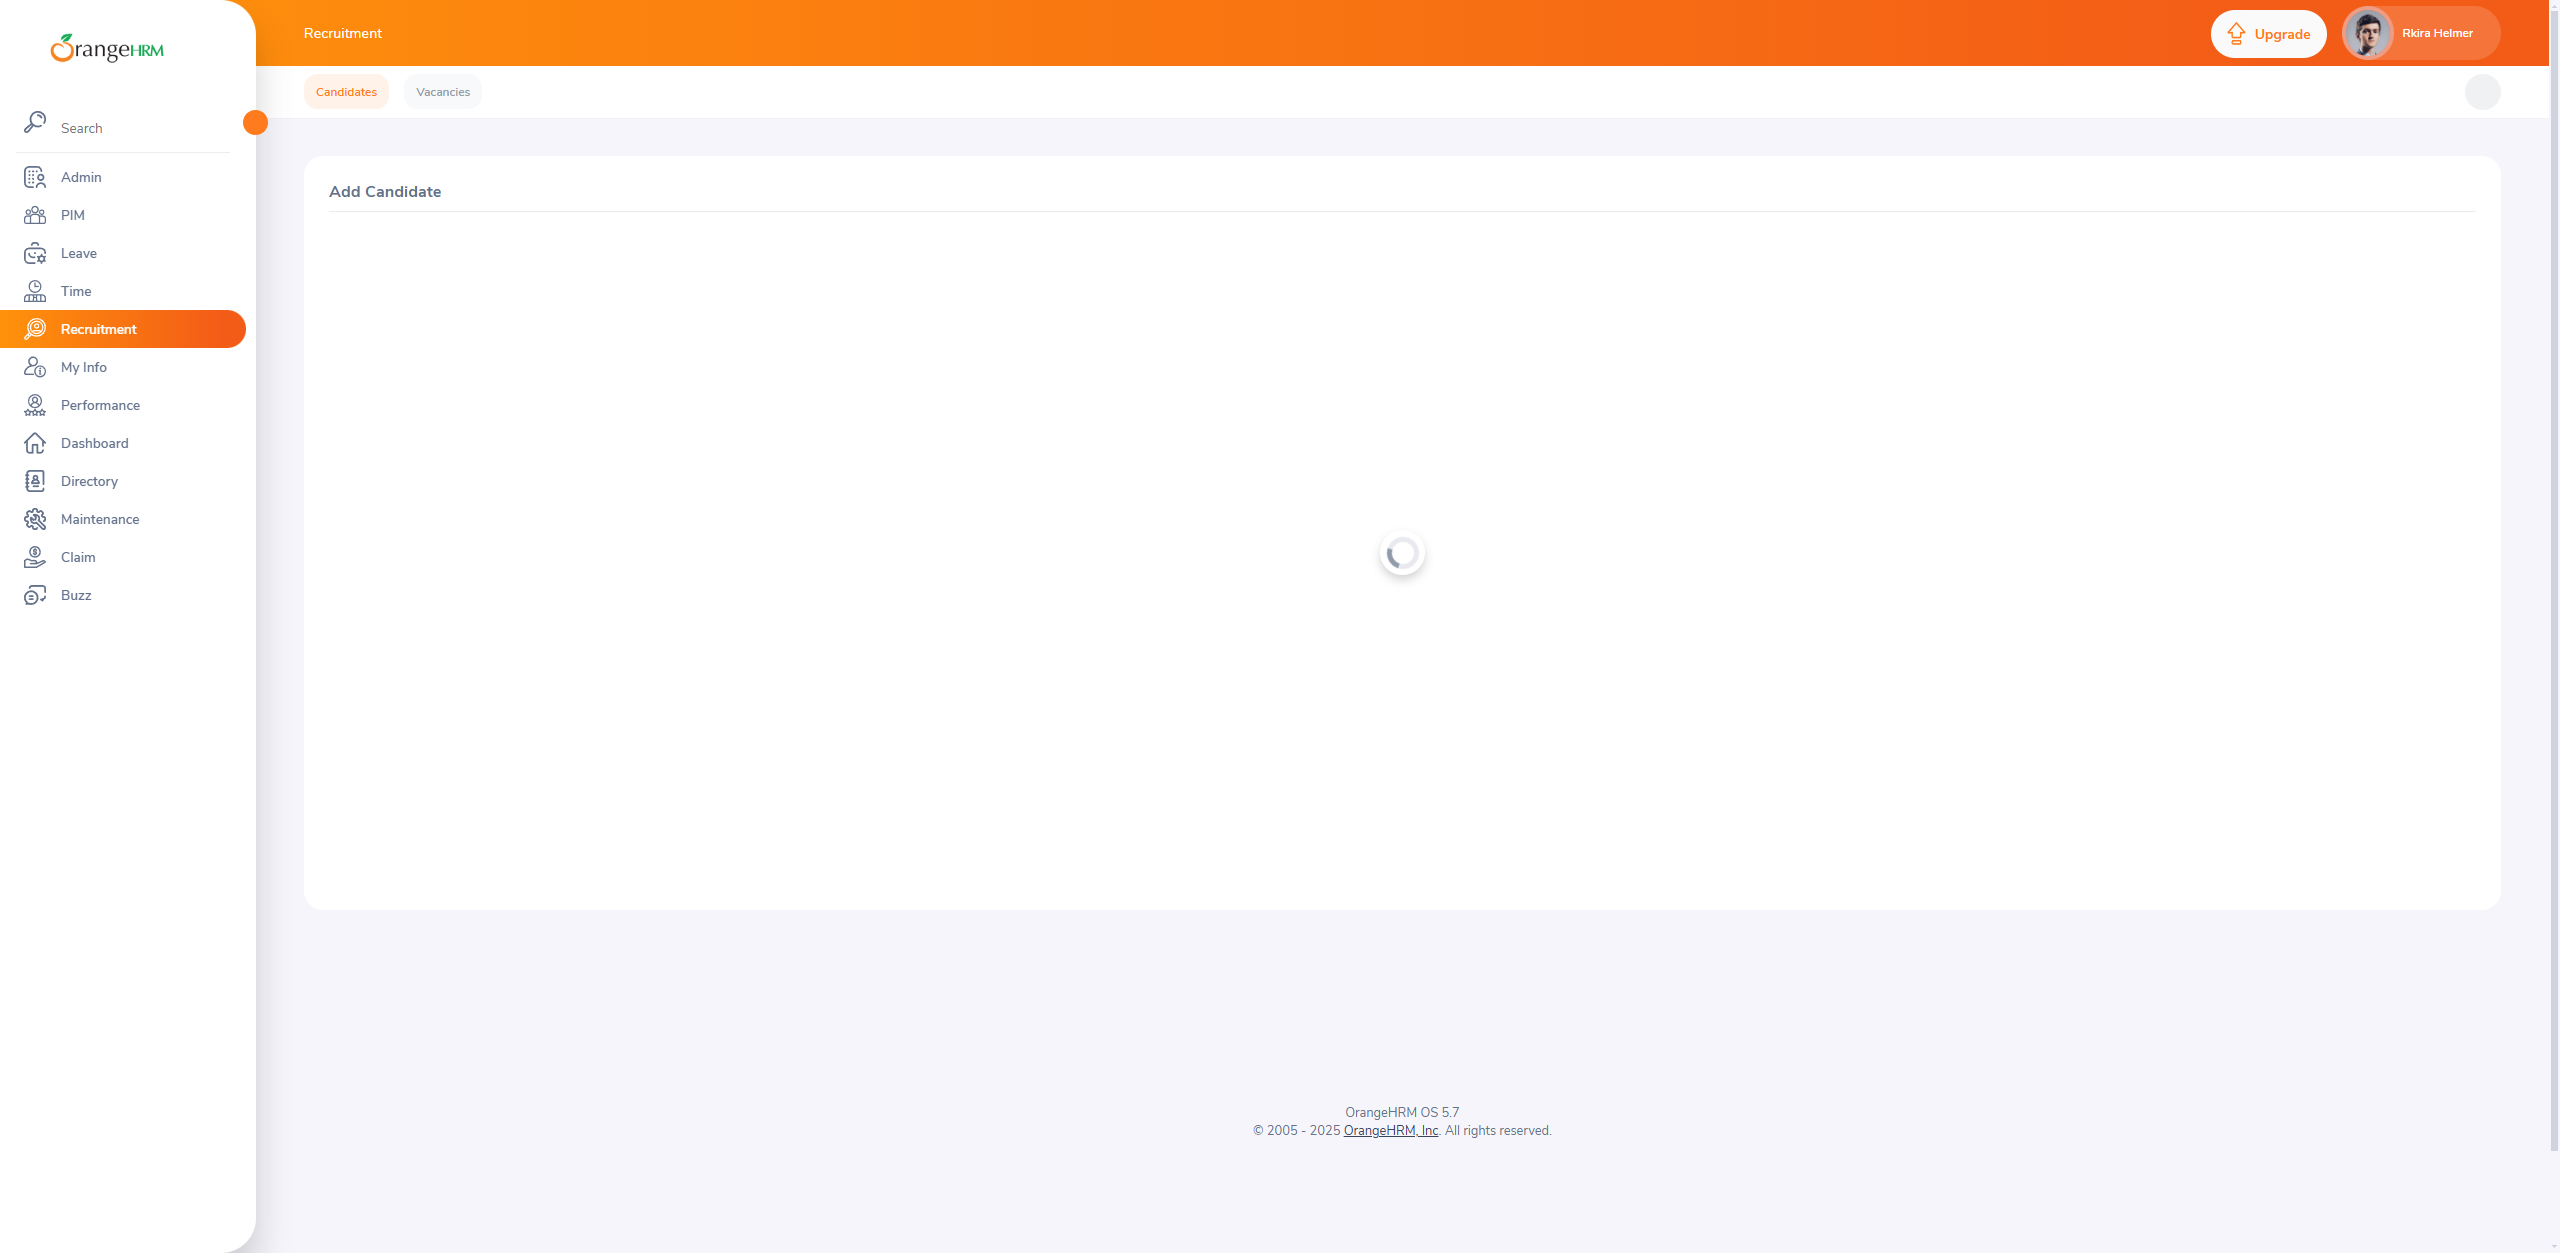
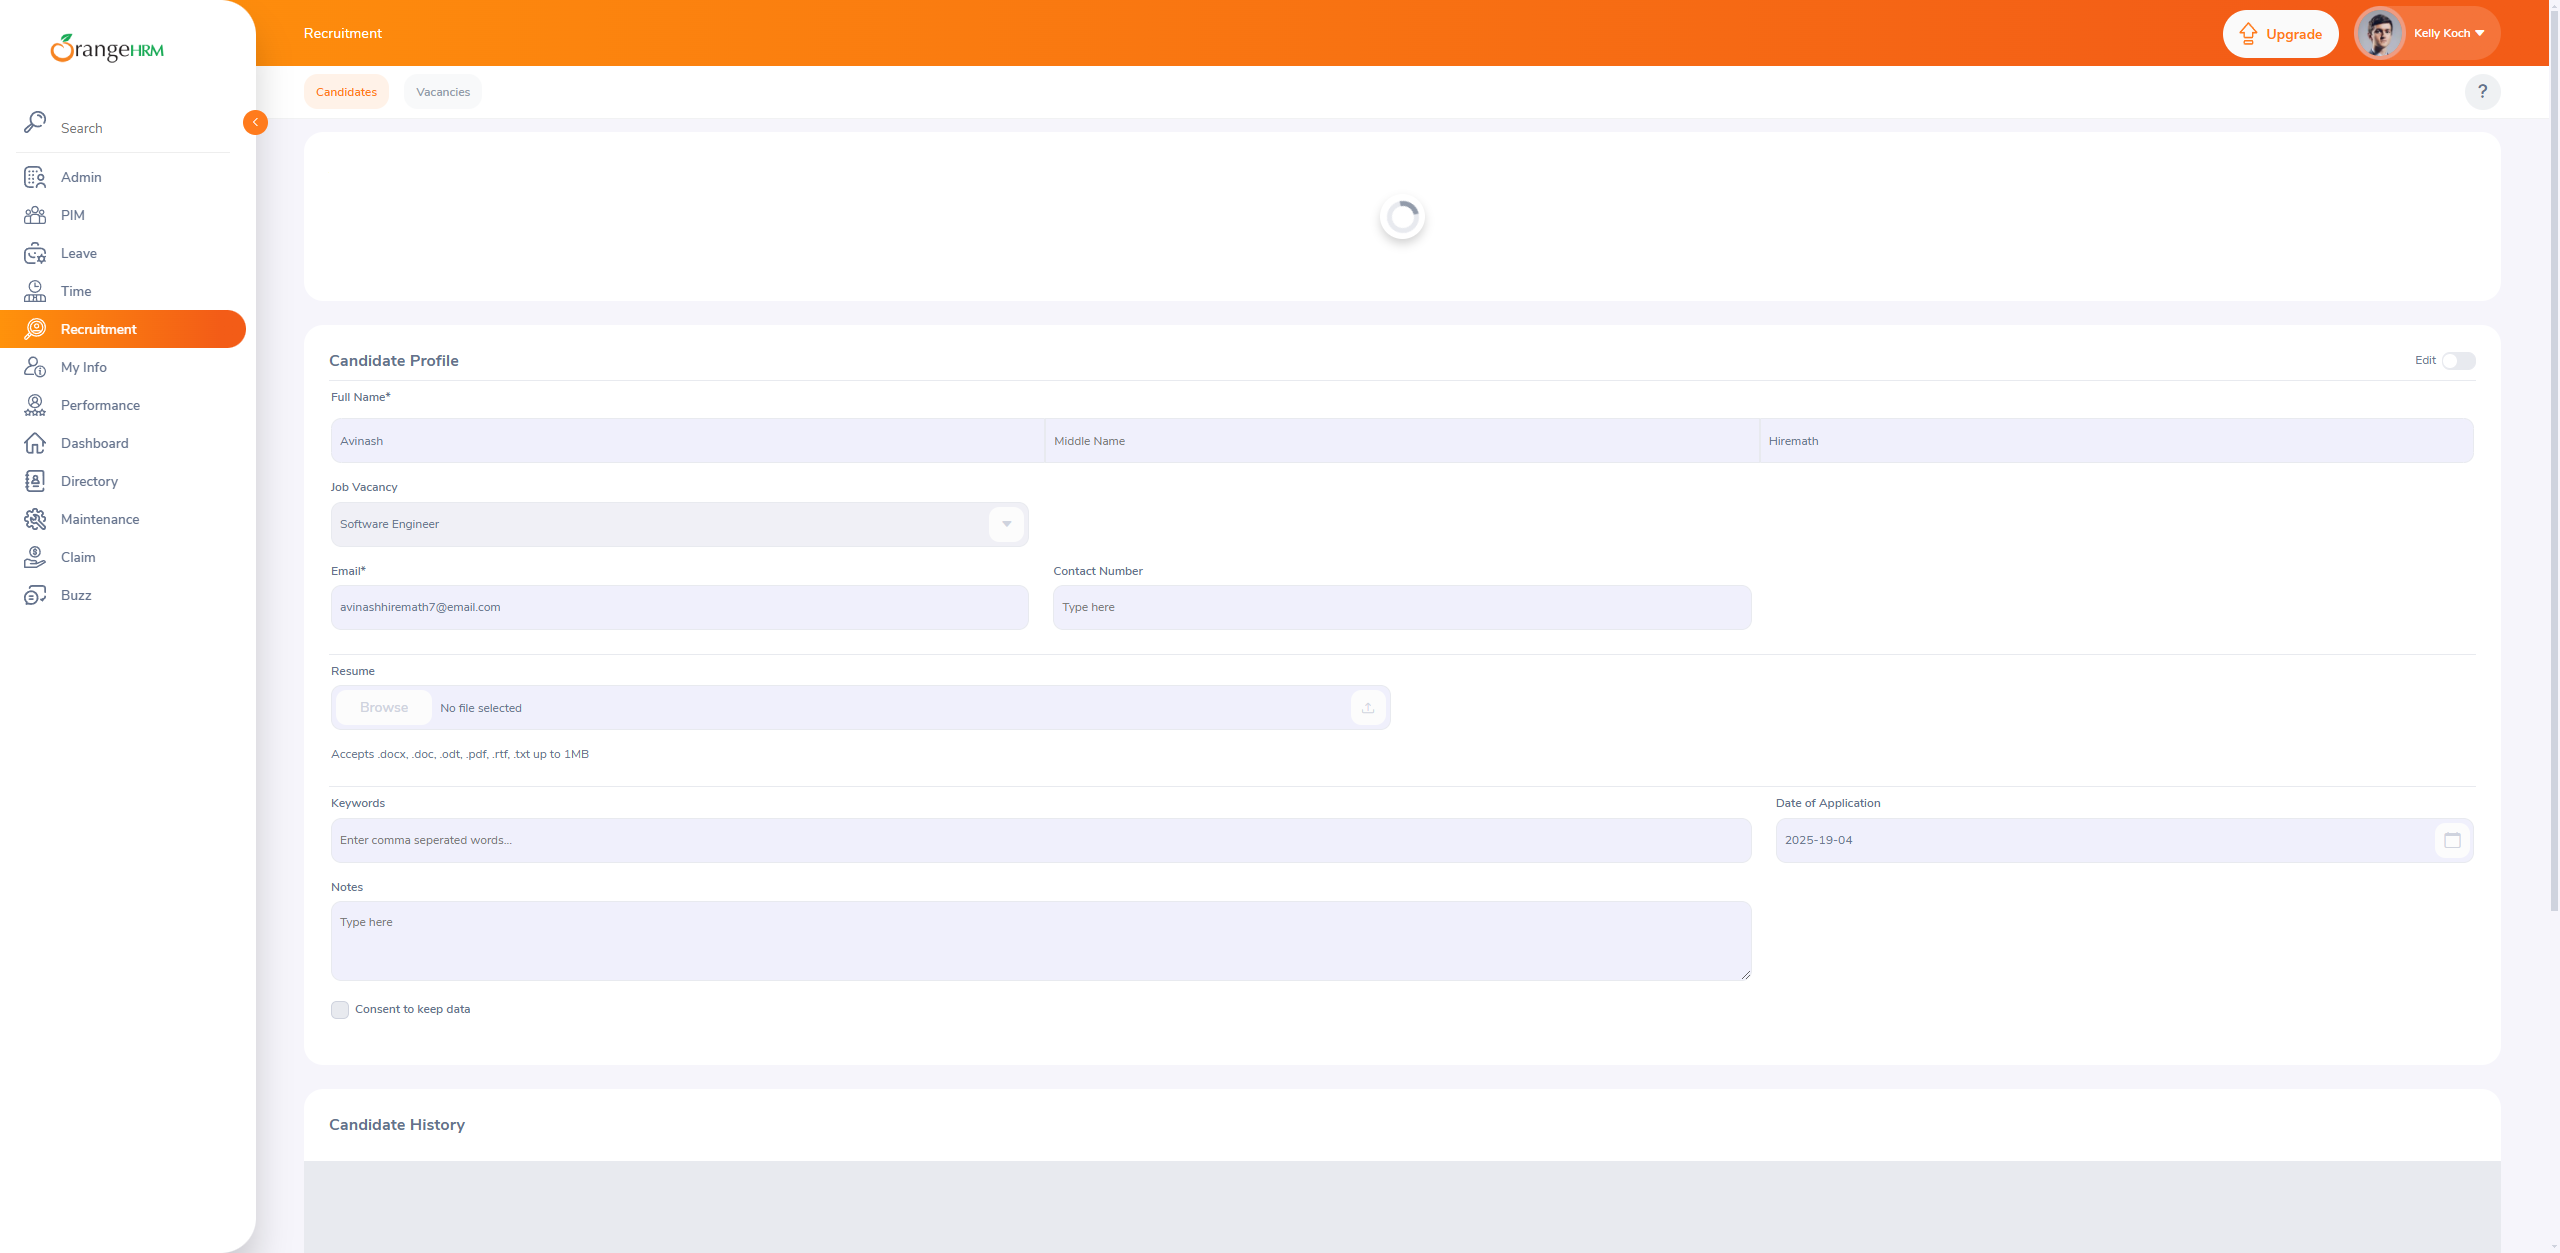
Clean Up

diff --git a/src/main/java/org/RecruitmentFlow.java b/src/main/java/org/RecruitmentFlow.java
@@ -9,9 +9,11 @@ import java.time.Duration;
 
 public class RecruitmentFlow {
     private WebDriver driver;
+    private WebDriverWait wait;
 
     public RecruitmentFlow(WebDriver driver) {
         this.driver=driver;
+        this.wait = new WebDriverWait(driver, Duration.ofSeconds(10));
     }
 
     public void navigateToRecruitment() {
@@ -34,6 +36,10 @@ public class RecruitmentFlow {
         driver.findElement(By.xpath("//input[@name='firstName']")).sendKeys(firstName);
         driver.findElement(By.xpath("//input[@name='lastName']")).sendKeys(lastName);
         driver.findElement(By.xpath("//*[@id=\"app\"]/div[1]/div[2]/div[2]/div/div/form/div[3]/div/div[1]/div/div[2]/input")).sendKeys(email);
+        WebElement jobVacancyDropdown = driver.findElement(By.xpath("//label[text()='Vacancy']/following::div[@class='oxd-select-text--after'][1]"));
+        jobVacancyDropdown.click();
+        WebElement option = wait.until(ExpectedConditions.visibilityOfElementLocated(By.xpath("//div[@role='listbox']//span[text()='Software Engineer']")));
+        option.click();
 
         WebElement resumeUpload = driver.findElement(By.xpath("//input[@type='file']"));
         resumeUpload.sendKeys(new File(resumePath).getAbsolutePath());
@@ -43,6 +49,7 @@ public class RecruitmentFlow {
     }
 
     public void takeScreenshot(String path) throws Exception {
+        wait.until(ExpectedConditions.visibilityOfElementLocated(By.xpath("//div[contains(@class,'oxd-table')]")));
         TakesScreenshot ts = (TakesScreenshot) driver;
         File src = ts.getScreenshotAs(OutputType.FILE);
         File dest = new File(path);

diff --git a/src/main/java/org/ReportUtil.java b/src/main/java/org/ReportUtil.java
@@ -13,9 +13,9 @@ import java.util.Properties;
 
 public class ReportUtil {
     public static void sendEmailWithReport(String filePath) throws Exception {
-        final String from = "FromEmail@gmail.com";
-        final String password = "password";
-        final String to = "ReceiverEmail@gmail.com";
+        final String from = "SenderEmail@gmail.com";
+        final String password = "Password";
+        final String to = "Reciever@gmail.com";
 
         Properties props = new Properties();
         props.put("mail.smtp.auth", "true");

diff --git a/src/test/java/org/Tests/AddResumeTest.java b/src/test/java/org/Tests/AddResumeTest.java
@@ -36,6 +36,7 @@ public class AddResumeTest {
 
         recruitmentPage.takeScreenshot(Constants.SCREENSHOT_PATH);
 
+        //This email trigger will only work when i add the working credentials in the ReportUtil class
         ReportUtil.sendEmailWithReport(Constants.SCREENSHOT_PATH);
     }
 
